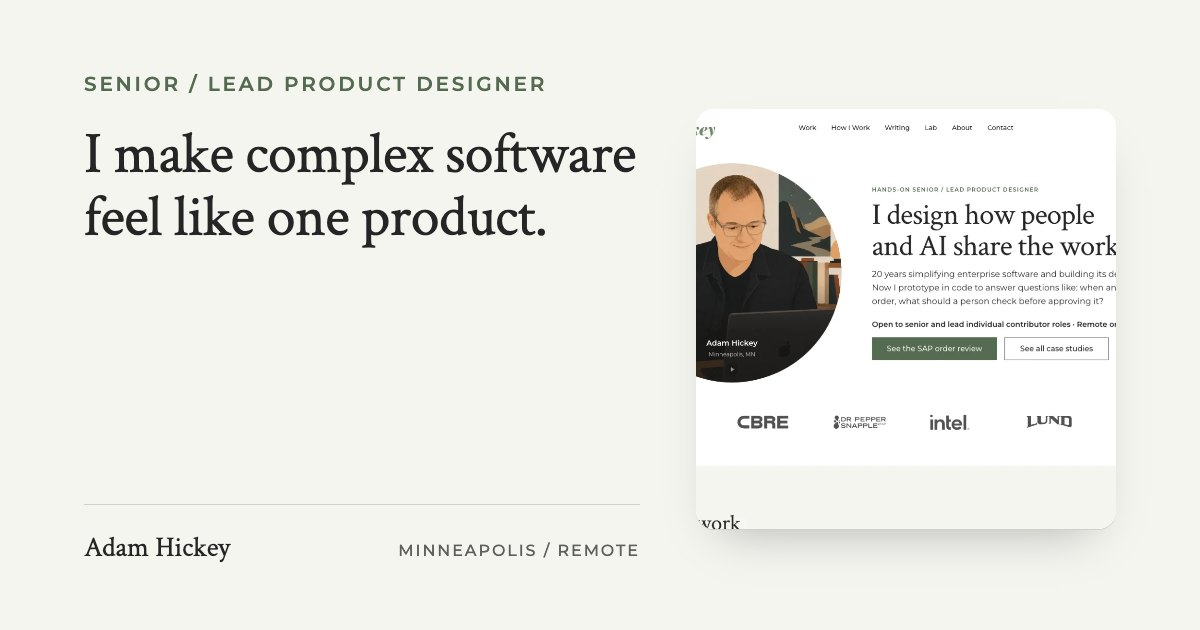
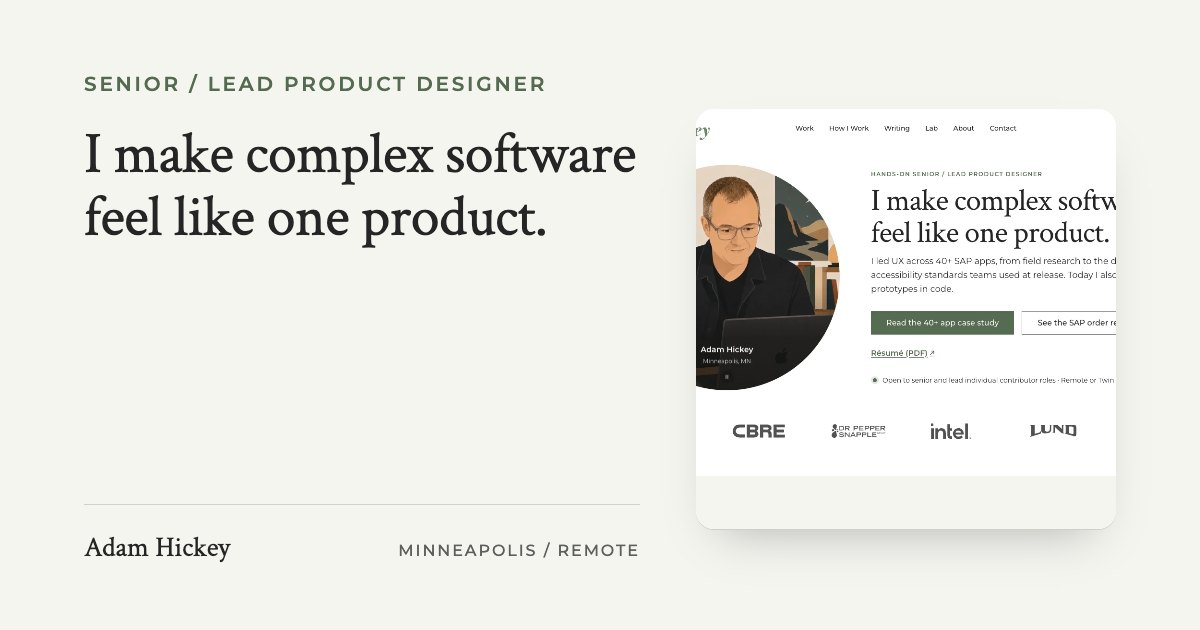
Share cards: the homepage capture retaken with the 40+ SAP apps headline
img/site/this-site.webp is the homepage at 1400 by 875 as #1364 left it,
so the homepage card and the This site card stop showing the old
headline in their inset. The write-up's alt text names the new title and
buttons. og:image and the capture's cache-busters bumped, since the bytes
at those paths changed.

diff --git a/case-study/this-site.html b/case-study/this-site.html
@@ -19,7 +19,7 @@
   <meta property="og:url" content="https://adamhickey.com/case-study/this-site.html" />
   <meta property="og:title" content="How I built this site | Adam Hickey" />
   <meta property="og:description" content="How adamhickey.com is built: thirty-four pages of plain HTML with no framework and no build step, three token files under four normative specs, and twelve checks that measure the rendered page before anything ships." />
-  <meta property="og:image" content="https://adamhickey.com/img/og/this-site.jpg?v=18" />
+  <meta property="og:image" content="https://adamhickey.com/img/og/this-site.jpg?v=19" />
   <meta property="og:image:width" content="1200" />
   <meta property="og:image:height" content="630" />
   <meta name="twitter:card" content="summary_large_image" />
@@ -40,9 +40,9 @@
           "description": "A build write-up for adamhickey.com: thirty-four pages of plain HTML with no framework and no build step, three token files under four normative specs, and twelve checks that measure the rendered page before anything ships.",
           "url": "https://adamhickey.com/case-study/this-site.html",
           "mainEntityOfPage": "https://adamhickey.com/case-study/this-site.html",
-          "image": "https://adamhickey.com/img/og/this-site.jpg?v=18",
+          "image": "https://adamhickey.com/img/og/this-site.jpg?v=19",
           "datePublished": "2026-09-17",
-          "dateModified": "2026-11-17",
+          "dateModified": "2026-11-23",
           "author": {
             "@id": "https://adamhickey.com/#adam"
           },
@@ -237,8 +237,8 @@
              sits one click away would be the one dishonest picture here. -->
         <figure class="build-shot">
           <div class="build-laptop"><div class="build-laptop-lid">
-              <img src="../img/site/this-site.webp?v=21" width="1400" height="875" fetchpriority="high" decoding="async"
-                   alt="The homepage of this site at laptop width: the portrait in a circle on the left, and on the right the title &ldquo;I design how people and AI share the work.&rdquo; over two buttons, See the SAP order review and See all case studies. Under them, a row of six client wordmarks." />
+              <img src="../img/site/this-site.webp?v=22" width="1400" height="875" fetchpriority="high" decoding="async"
+                   alt="The homepage of this site at laptop width: the portrait in a circle on the left, and on the right the title &ldquo;I make complex software feel like one product.&rdquo; over two buttons, Read the 40+ app case study and See the SAP order review. Under them, a row of six client wordmarks." />
             </div></div>
         </figure>
 

diff --git a/index.html b/index.html
@@ -30,7 +30,7 @@
        "How a change reaches the live site". -->
   <link rel="canonical" href="https://adamhickey.com/" />
   <meta property="og:url" content="https://adamhickey.com/" />
-  <meta property="og:image" content="https://adamhickey.com/img/og/index.jpg?v=19" />
+  <meta property="og:image" content="https://adamhickey.com/img/og/index.jpg?v=20" />
   <meta property="og:image:width" content="1200" />
   <meta property="og:image:height" content="630" />
   <meta name="twitter:card" content="summary_large_image" />
@@ -51,7 +51,7 @@
           "jobTitle": "Senior Product Designer",
           "description": "Senior product designer for complex enterprise software, design systems, and agentic workflows, who builds what he designs, in Minneapolis.",
           "url": "https://adamhickey.com/",
-          "image": "https://adamhickey.com/img/og/index.jpg?v=19",
+          "image": "https://adamhickey.com/img/og/index.jpg?v=20",
           "email": "mailto:adam@adamhickey.com",
           "address": {
             "@type": "PostalAddress",
@@ -87,7 +87,7 @@
           "name": "Adam Hickey — Product Design",
           "description": "Adam Hickey's independent product design practice in Minneapolis, for complex enterprise software: design systems, modernizing legacy products, and AI product prototypes. Twenty years inside enterprise platforms, design systems, and products that outgrew their original shape.",
           "url": "https://adamhickey.com/",
-          "image": "https://adamhickey.com/img/og/index.jpg?v=19",
+          "image": "https://adamhickey.com/img/og/index.jpg?v=20",
           "founder": {
             "@id": "https://adamhickey.com/#adam"
           },

diff --git a/writing/how-do-you-write-design-quality-down-so-an-agent-can-use-it.html b/writing/how-do-you-write-design-quality-down-so-an-agent-can-use-it.html
@@ -44,7 +44,7 @@
           "mainEntityOfPage": "https://adamhickey.com/writing/how-do-you-write-design-quality-down-so-an-agent-can-use-it.html",
           "image": "https://adamhickey.com/img/og/how-do-you-write-design-quality-down-so-an-agent-can-use-it.jpg?v=5",
           "datePublished": "2026-11-14",
-          "dateModified": "2026-11-18",
+          "dateModified": "2026-11-23",
           "author": {
             "@id": "https://adamhickey.com/#adam"
           },
@@ -313,7 +313,7 @@
           <h2 id="every-rule-on-this-site-came-from-a-failure">Every rule on this site came from a failure I found first</h2>
           <p>This site, my portfolio, is held to four written specs by twelve checks that measure the rendered page.</p>
           <figure class="writing-figure shift-work">
-            <img src="../img/site/this-site.webp?v=21" width="1400" height="875" alt="The homepage of this site at laptop width: the wordmark and navigation, a portrait in a circle, and the title beside it." loading="lazy" decoding="async" />
+            <img src="../img/site/this-site.webp?v=22" width="1400" height="875" alt="The homepage of this site at laptop width: the wordmark and navigation, a portrait in a circle, and the title beside it." loading="lazy" decoding="async" />
             <figcaption>
               <span class="shift-work-label">From my work</span>
               <span class="shift-work-line"><strong>This site.</strong> Every color, size, and space on the page is held by a written spec and a check.</span>
